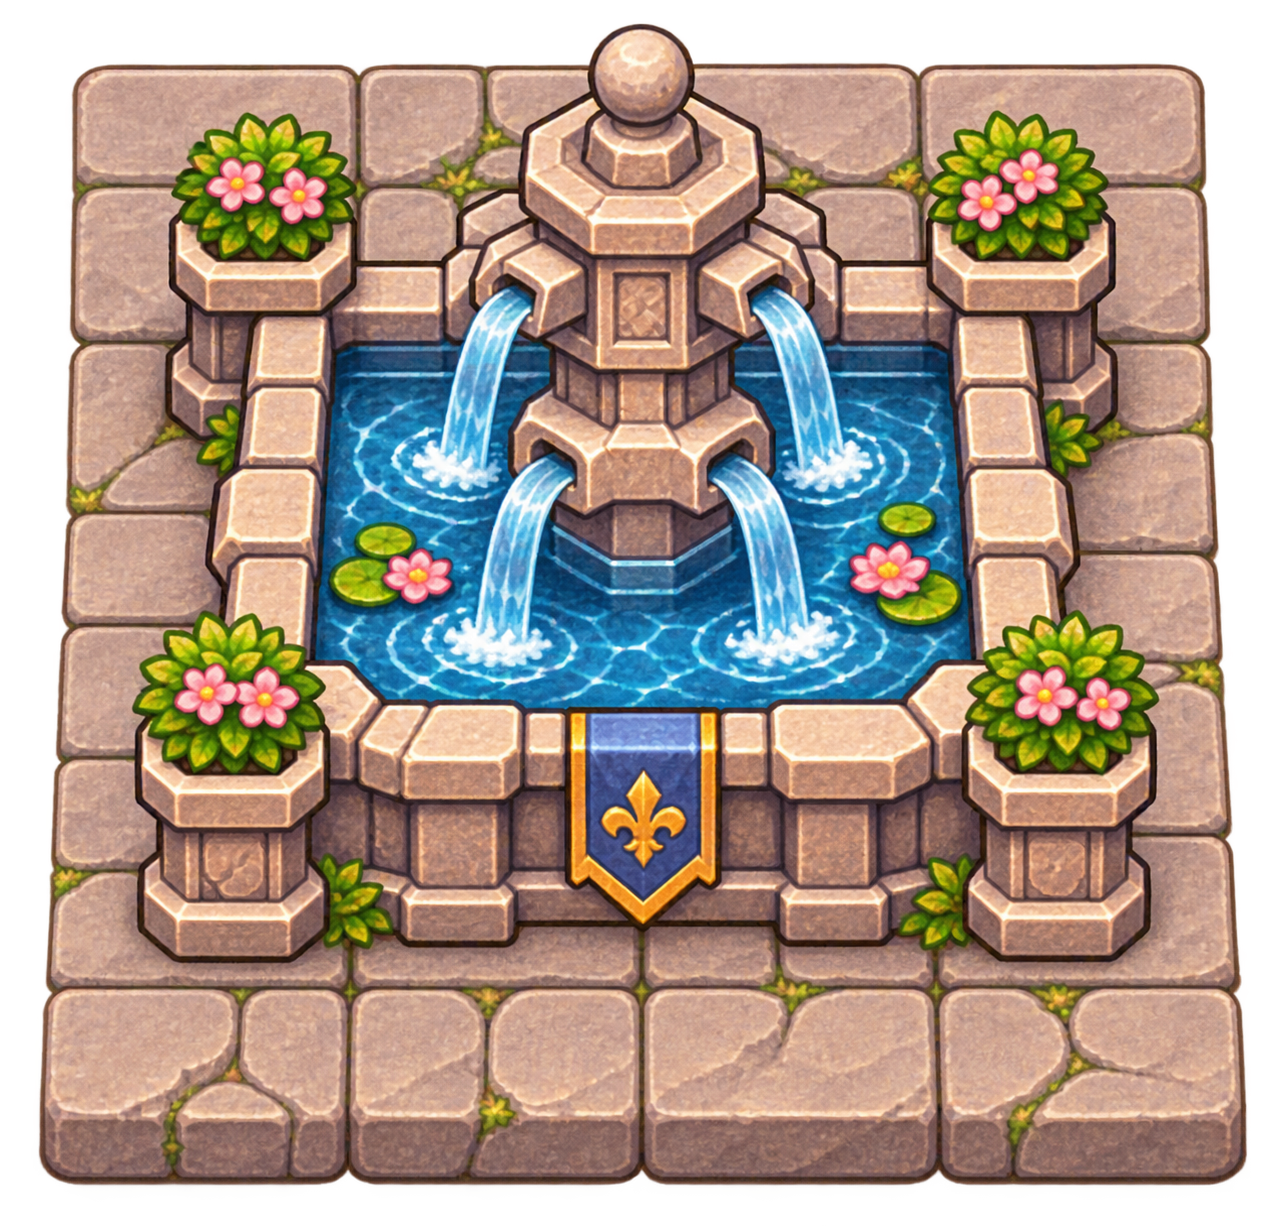
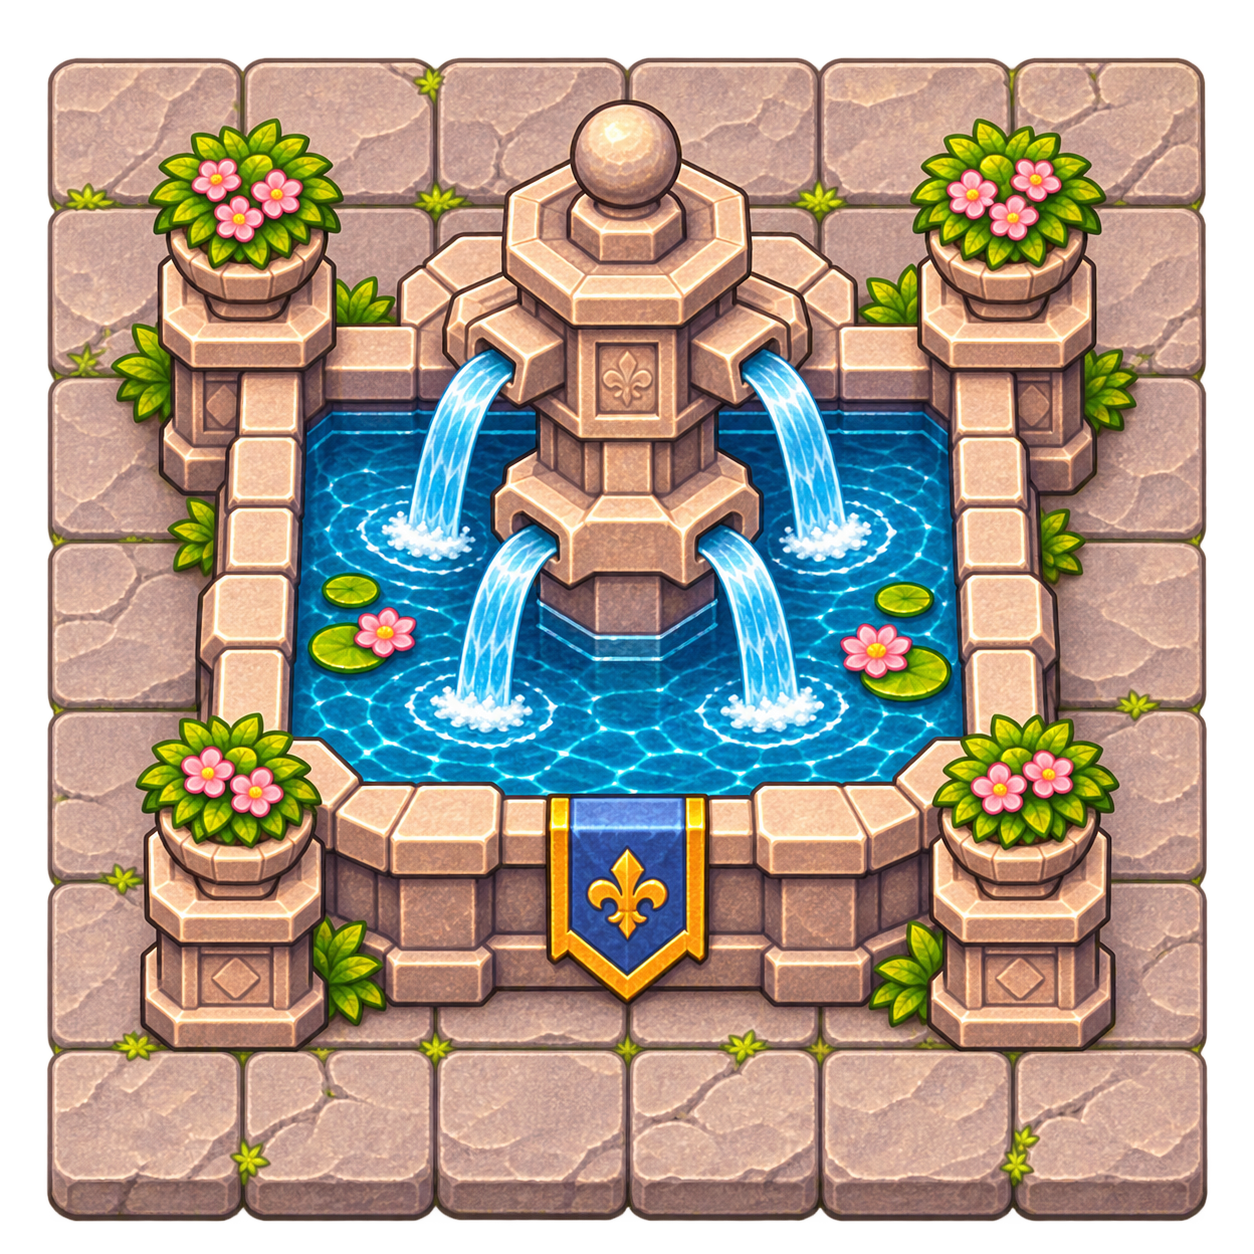
Fonte maior (5×5) com a arte nova
O dono do produto mandou uma fonte nova e maior. A de 3×3 ficava pequena na
praça central de 19×13. A fonte passa a ocupar 5×5, centralizada na praça, e os
bancos e as barracas em volta continuam no lugar. A praça muda igual para todas
as seeds, e salvamentos antigos se ajustam sozinhos porque a área da cidade
sempre volta do gerador. Os testes da cidade continuam passando (ruas, portas e
moradores alcançáveis).

Claude-Session: https://claude.ai/code/session_01KGdgomm438trDHTLPLqJmv

diff --git a/src/world/town.ts b/src/world/town.ts
@@ -82,7 +82,7 @@ export const TOWN_SIZES: Partial<Record<BlockId, [number, number, number]>> = {
   [Block.HOUSE_TALL]: [5, 5, 5],
   [Block.WATCHTOWER]: [4, 6, 6],
   [Block.WELL]: [2, 2, 2],
-  [Block.FOUNTAIN]: [3, 3, 3],
+  [Block.FOUNTAIN]: [5, 5, 5],
   [Block.STALL]: [2, 1, 1],
   [Block.BENCH]: [2, 1, 1],
   [Block.BENCH_LONG]: [3, 1, 1],
@@ -441,7 +441,7 @@ function buildTown(): TownLayout {
   const nearStreet = (x: number, y: number) => [[1, 0], [-1, 0], [0, 1], [0, -1]].some(([ox, oy]) => isWalk(x + ox, y + oy));
   // Praças: fonte, poço, bancos, placas, postes de luz e barracas.
   const fx = W / 2 - 1;
-  place(Block.FOUNTAIN, fx, MID - 1, 'Fonte', false);
+  place(Block.FOUNTAIN, W / 2 - 2, MID - 2, 'Fonte', false); // 5×5 no centro da praça
   place(Block.WELL, W / 2 + 4, H - 15, 'Poço', false);
   place(Block.STALL, W / 2 - 7, MID - 4, 'Barraca', false);
   place(Block.STALL, W / 2 + 5, MID + 4, 'Barraca', false);

diff --git a/scripts/extract-town.py b/scripts/extract-town.py
@@ -46,7 +46,7 @@ OBJECTS = [
     ('lamp-stone', 'lamps', (0, 0, 500, 800), ('base', 0.62, 0.7), (1, 1), False),
     ('lamp-wood', 'lamps', (500, 0, 1000, 800), ('base', 0.62, 0.7), (1, 1), False),
     ('lamp-mixed', 'lamps', (990, 0, 1536, 800), ('base', 0.62, 0.7), (1, 1), False),
-    ('fountain', 'fountain', (0, 0, 1283, 1226), ('full', 3), (3, 3), False),
+    ('fountain', 'fountain', (0, 0, 1254, 1254), ('full', 5), (5, 5), False),
     ('well', 'well', (0, 0, 1024, 1536), ('full', 2.5), (2, 2), False),
     ('stall', 'stall', (0, 0, 1261, 1247), ('full', 2.6), (2, 1), False),
     ('barrel', 'barrel', (0, 0, 1254, 1254), ('full', 0.8), (1, 1), False),

diff --git a/docs/domains/town.md b/docs/domains/town.md
@@ -35,7 +35,7 @@ A Cidade do Despertar · V1.0" (pedido do dono do produto, 2026-11-03).
    de Poções / Armazém / Loja de Ferramentas (5×5 cada, sudeste). **Casas 5×5** (térrea ou de 2 andares) preenchem os
    terrenos junto às ruas, com 1 célula de folga entre si e **porta voltada para a rua** (ou por um caminho curto de
    até 3 células pelo quintal).
-6. **Decoração**: praças primeiro (fonte 3×3 na praça central, poço 2×2 na praça inicial, barracas, bancos 2×1 e 3×1,
+6. **Decoração**: praças primeiro (fonte 5×5 no centro da praça central, poço 2×2 na praça inicial, barracas, bancos 2×1 e 3×1,
    placas, postes de luz) — nenhuma porta fica atrás de um enfeite; depois lampiões ao longo do caminho principal (≥ 7 células
    entre si), barris/caixotes nas oficinas, **cerca viva** na beira das ruas (~62%, as falhas são atalhos),
    carvalhos/cerejeiras, flores e capim nos jardins.
@@ -74,7 +74,7 @@ cobre os 26×17), guarita, bancos 2×1 e 3×1, **3 postes de luz** (pedra, madei
 3 arbustos da cerca viva. Todas na mesma escala (`TOWN_PX_PER_CELL` = 48 px por célula), centradas na largura da
 construção e com a base no pé da célula — **nunca esticadas nem remontadas** (uma imagem por tamanho; remontar já
 deformou a casa). Da prancha do castelo "Senhor Feudal" (também 26×17) não foi usada: é uma fachada que cobre só ~11
-das 17 fileiras. **Hospedaria** 9×5 de 2 andares (prancha já transparente: recorte pelo alfa, sem remoção de fundo). **Fonte** 3×3, **poço** 2×2 (desenho ~4 células de altura com o telhado), **barraca de frutas** 2×1 e **barril** 1×1 também
+das 17 fileiras. **Hospedaria** 9×5 de 2 andares (prancha já transparente: recorte pelo alfa, sem remoção de fundo). **Fonte** 5×5 (v0.43.1), **poço** 2×2 (desenho ~4 células de altura com o telhado), **barraca de frutas** 2×1 e **barril** 1×1 também
 vêm de pranchas. Ainda **pintados em código**: caixotes e placas.
 Render varre colunas à esquerda/linhas abaixo da tela só para esses sprites (`TOWN_REACH`).
 

diff --git a/docs/CHANGELOG.md b/docs/CHANGELOG.md
@@ -1,5 +1,10 @@
 # Changelog
 
+## 0.43.1 — 2026-11-04
+- **Fonte maior** (arte nova do dono do produto): a fonte da praça central passa de 3×3 para **5×5**, centralizada na
+  praça; bancos e barracas em volta continuam nos mesmos lugares. Muda a praça central (igual em toda seed); salvamentos
+  antigos se ajustam sozinhos (a área da cidade volta do gerador).
+
 ## 0.43.0 — 2026-11-04
 - **Fonte, poço, barraca de frutas e barril com arte nova** (pranchas do dono do produto), no lugar da pintura em
   código. Os tamanhos dos lotes não mudaram: fonte 3×3, poço 2×2, barraca 2×1 e barril 1×1. Só os caixotes e as placas
